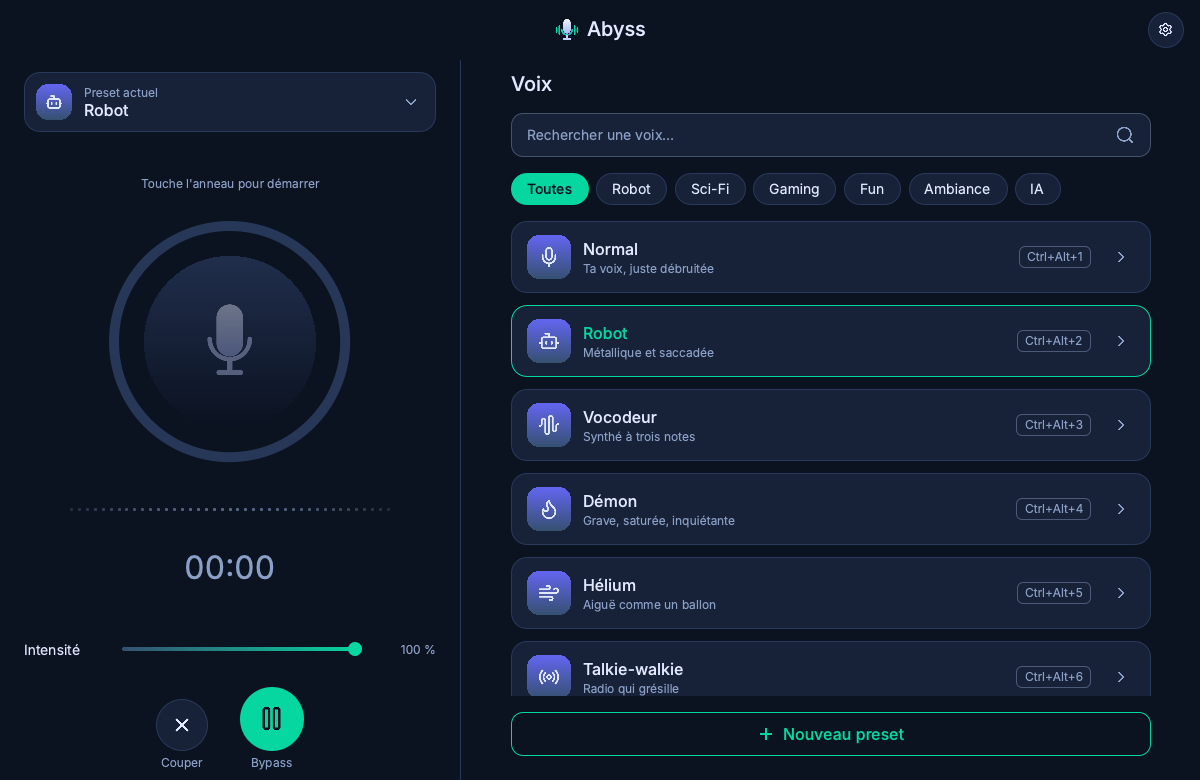
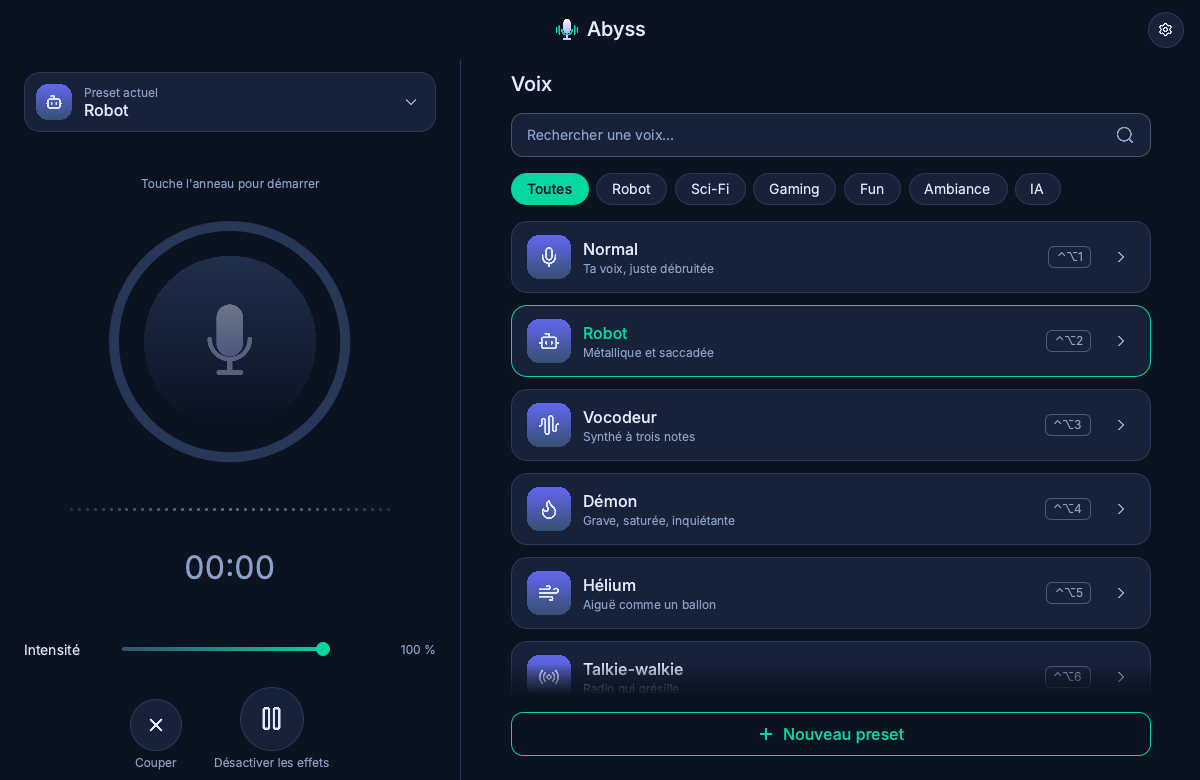
fix(ui): revue de l'interface — bypass, libellés, alignement des curseurs
- Bypass neutre tant que les effets sont actifs ; libellés explicites
- Éditeur : libellés Nom / Description, égaliseur en Hz / kHz
- Curseurs : colonnes libellé/valeur communes, empilés en largeur étroite
- Réglages : « Réduire le bruit de fond », interrupteurs alignés
- Raccourcis en notation Mac (⌃⌥1) sur macOS
- Liste des voix : fondu en bas quand elle défile
- Captures d'écran mises à jour

diff --git a/src/abyss/ui/qml/components/AbyssRangeSlider.qml b/src/abyss/ui/qml/components/AbyssRangeSlider.qml
@@ -12,29 +12,41 @@ Item {
     property bool logarithmic: true
     property real first: 80
     property real second: 8000
-    property real labelWidth: 96
-    property var formatValue: function(v) { return v >= 1000 ? (v / 1000).toFixed(v >= 10000 ? 0 : 1) + " k" : Math.round(v) + "" }
+    property real labelWidth: Theme.formLabelWidth
+    property real valueWidth: Theme.formValueWidth
+    property var formatValue: function(v) { return v >= 1000 ? (v / 1000).toFixed(v >= 10000 ? 0 : 1) + " kHz" : Math.round(v) + " Hz" }
     signal edited(real first, real second)
 
     function toPos(v) { return logarithmic ? Math.log(v / from) / Math.log(to / from) : (v - from) / (to - from) }
     function fromPos(p) { return logarithmic ? from * Math.pow(to / from, p) : from + p * (to - from) }
 
-    implicitHeight: Theme.controlHeight
+    // Étroit : libellé et valeur au-dessus, piste pleine largeur.
+    readonly property bool stacked: label !== "" && width < labelWidth + valueWidth + 200
+    implicitHeight: stacked ? grid.implicitHeight : Theme.controlHeight
     implicitWidth: 280
     opacity: enabled ? 1 : 0.4
 
-    RowLayout {
+    GridLayout {
+        id: grid
         anchors.fill: parent
-        spacing: Theme.s3
+        columns: root.stacked ? 2 : 3
+        columnSpacing: Theme.s3
+        rowSpacing: 0
         AbyssText {
             visible: root.label !== ""
             text: root.label
             role: "bodySmall"
-            Layout.preferredWidth: root.labelWidth
+            Layout.row: 0; Layout.column: 0
+            Layout.fillWidth: root.stacked
+            Layout.preferredWidth: root.stacked ? -1 : root.labelWidth
         }
         C.RangeSlider {
             id: range
+            Layout.row: root.stacked ? 1 : 0
+            Layout.column: root.stacked ? 0 : 1
+            Layout.columnSpan: root.stacked ? 2 : 1
             Layout.fillWidth: true
+            Layout.preferredHeight: Theme.controlHeight - (root.stacked ? Theme.s3 : 0)
             from: 0; to: 1
             first.value: root.toPos(root.first)
             second.value: root.toPos(root.second)
@@ -73,7 +85,8 @@ Item {
             role: "caption"
             secondary: true
             horizontalAlignment: Text.AlignRight
-            Layout.preferredWidth: 72
+            Layout.row: 0; Layout.column: root.stacked ? 1 : 2
+            Layout.preferredWidth: root.valueWidth
         }
     }
 }

diff --git a/src/abyss/ui/qml/components/AbyssSlider.qml b/src/abyss/ui/qml/components/AbyssSlider.qml
@@ -14,7 +14,8 @@ Item {
     property alias pressed: slider.pressed
     property string unit: "%"
     property int decimals: 0
-    property real labelWidth: 96
+    property real labelWidth: Theme.formLabelWidth
+    property real valueWidth: Theme.formValueWidth
     // Par défaut : 0..1 affiché en %, sinon valeur + unité.
     property var formatValue: function(v) {
         return unit === "%" && slider.to <= 1 ? Math.round(v * 100) + " %"
@@ -22,22 +23,33 @@ Item {
     }
     signal moved(real value)
 
-    implicitHeight: Theme.controlHeight
+    // Étroit : libellé et valeur au-dessus, piste pleine largeur.
+    readonly property bool stacked: label !== "" && width < labelWidth + valueWidth + 200
+    implicitHeight: stacked ? grid.implicitHeight : Theme.controlHeight
     implicitWidth: 280
     opacity: enabled ? 1 : 0.4
 
-    RowLayout {
+    GridLayout {
+        id: grid
         anchors.fill: parent
-        spacing: Theme.s3
+        columns: root.stacked ? 2 : 3
+        columnSpacing: Theme.s3
+        rowSpacing: 0
         AbyssText {
             visible: root.label !== ""
             text: root.label
             role: "bodySmall"
-            Layout.preferredWidth: root.labelWidth
+            Layout.row: 0; Layout.column: 0
+            Layout.fillWidth: root.stacked
+            Layout.preferredWidth: root.stacked ? -1 : root.labelWidth
         }
         Slider {
             id: slider
+            Layout.row: root.stacked ? 1 : 0
+            Layout.column: root.stacked ? 0 : 1
+            Layout.columnSpan: root.stacked ? 2 : 1
             Layout.fillWidth: true
+            Layout.preferredHeight: Theme.controlHeight - (root.stacked ? Theme.s3 : 0)
             from: 0; to: 1; value: 0.5
             onMoved: root.moved(value)
             background: Rectangle {
@@ -74,7 +86,8 @@ Item {
             role: "caption"
             secondary: true
             horizontalAlignment: Text.AlignRight
-            Layout.preferredWidth: 56
+            Layout.row: 0; Layout.column: root.stacked ? 1 : 2
+            Layout.preferredWidth: root.valueWidth
         }
     }
 }

diff --git a/src/abyss/ui/qml/screens/PresetEditor.qml b/src/abyss/ui/qml/screens/PresetEditor.qml
@@ -81,13 +81,13 @@ Item {
 
                 AbyssSlider {
                     Layout.fillWidth: true
-                    label: "Intensité"; labelWidth: 84
+                    label: "Intensité"
                     value: root.draft.intensity !== undefined ? root.draft.intensity : 1
                     onMoved: (v) => root.setValue("intensity", v)
                 }
                 AbyssRangeSlider {
                     Layout.fillWidth: true
-                    label: "Égaliseur"; labelWidth: 84
+                    label: "Égaliseur"
                     from: 50; to: 12000
                     first: root.draft.toneLow || 50
                     second: root.draft.toneHigh || 12000
@@ -110,6 +110,7 @@ Item {
             }
 
             AbyssText { text: "Identité"; role: "label"; Layout.topMargin: Theme.s2 }
+            AbyssText { text: "Nom"; role: "caption"; secondary: true; Layout.bottomMargin: -Theme.s2 }
             AbyssTextField {
                 id: nameField
                 Layout.fillWidth: true
@@ -118,6 +119,7 @@ Item {
                 maximumLength: 40
                 onTextEdited: root.setValue("name", text)
             }
+            AbyssText { text: "Description"; role: "caption"; secondary: true; Layout.bottomMargin: -Theme.s2 }
             AbyssTextField {
                 id: descField
                 Layout.fillWidth: true
@@ -177,7 +179,6 @@ Item {
                                     anchors.left: parent.left
                                     anchors.right: parent.right
                                     label: paramRow.param.label
-                                    labelWidth: 120
                                     from: paramRow.param.min; to: paramRow.param.max; stepSize: paramRow.param.step
                                     unit: paramRow.param.unit
                                     decimals: root.decimalsFor(paramRow.param.step)

diff --git a/src/abyss/ui/qml/screens/Settings.qml b/src/abyss/ui/qml/screens/Settings.qml
@@ -89,10 +89,10 @@ Item {
 
             SectionLabel { text: "Débruitage" }
             Card {
-                AbyssToggle { text: "Débruitage"; checked: app.denoiseOn; onToggled: app.setDenoise(checked) }
+                AbyssToggle { text: "Réduire le bruit de fond"; checked: app.denoiseOn; onToggled: app.setDenoise(checked) }
                 AbyssSlider {
                     Layout.fillWidth: true
-                    label: "Seuil"; labelWidth: 72
+                    label: "Seuil"
                     from: -80; to: -20; stepSize: 1; unit: "dB"
                     value: app.denoiseThreshold
                     enabled: app.denoiseOn
@@ -105,7 +105,7 @@ Item {
                 AbyssToggle { text: "M'entendre dans le casque"; checked: app.monitorOn; onToggled: app.setMonitor(checked) }
                 AbyssSlider {
                     Layout.fillWidth: true
-                    label: "Volume"; labelWidth: 72
+                    label: "Volume"
                     value: app.monitorVolume
                     enabled: app.monitorOn
                     onMoved: (v) => app.setMonitorVolume(v)
@@ -117,7 +117,7 @@ Item {
             Card {
                 AbyssSlider {
                     Layout.fillWidth: true
-                    label: "Gain"; labelWidth: 72
+                    label: "Gain"
                     from: -12; to: 12; stepSize: 1; unit: "dB"
                     formatValue: function(v) { return (v > 0 ? "+" : "") + v.toFixed(0) + " dB" }
                     value: app.outputGain

diff --git a/src/abyss/ui/qml/screens/Direct.qml b/src/abyss/ui/qml/screens/Direct.qml
@@ -133,14 +133,15 @@ Item {
                 IconButton {
                     Layout.alignment: Qt.AlignHCenter
                     diameter: 64
-                    variant: "active"
+                    variant: app.bypass ? "active" : "neutral"
                     iconName: app.bypass ? "play" : "pause"
                     tooltip: app.bypass ? "Réactiver les effets" : "Bypass : voix sans effets"
                     onClicked: app.toggleBypass()
                 }
                 AbyssText {
-                    text: app.bypass ? "Effets en pause" : "Bypass"
-                    role: "caption"; secondary: true
+                    text: app.bypass ? "Réactiver les effets" : "Désactiver les effets"
+                    role: "caption"; secondary: !app.bypass
+                    color: app.bypass ? Theme.accent : Theme.textSecondary
                     Layout.alignment: Qt.AlignHCenter
                 }
             }

diff --git a/src/abyss/ui/qml/screens/Voices.qml b/src/abyss/ui/qml/screens/Voices.qml
@@ -68,6 +68,19 @@ Item {
                 onClicked: { app.selectPreset(model.id); root.presetChosen(model.id) }
                 onChevronClicked: root.editPreset(model.id)
             }
+            // Fondu bas : signale qu'il reste des voix à faire défiler.
+            Rectangle {
+                parent: list
+                anchors.left: parent.left
+                anchors.right: parent.right
+                anchors.bottom: parent.bottom
+                height: Theme.s6
+                visible: !list.atYEnd
+                gradient: Gradient {
+                    GradientStop { position: 0; color: "transparent" }
+                    GradientStop { position: 1; color: Theme.bgDeep }
+                }
+            }
             AbyssText {
                 anchors.centerIn: parent
                 visible: list.count === 0

diff --git a/src/abyss/ui/qml/theme/Theme.qml b/src/abyss/ui/qml/theme/Theme.qml
@@ -49,6 +49,8 @@ QtObject {
     readonly property int iconSize: 20
     readonly property int iconButton: 52
     readonly property int strokeThin: 1
+    readonly property int formLabelWidth: 120   // colonne libellé des curseurs de formulaire
+    readonly property int formValueWidth: 88    // colonne valeur (« 50 Hz – 12 kHz », « -12 demi-tons »)
 
     // Animation
     readonly property int durFast: 150

diff --git a/src/abyss/ui/qml/components/AbyssToggle.qml b/src/abyss/ui/qml/components/AbyssToggle.qml
@@ -6,6 +6,7 @@ Switch {
     id: control
     hoverEnabled: true
     spacing: Theme.s3
+    leftPadding: 0
     opacity: enabled ? 1 : 0.4
 
     indicator: Rectangle {

diff --git a/tests/test_controller.py b/tests/test_controller.py
@@ -2,6 +2,7 @@ import pytest
 from PySide6.QtWidgets import QApplication
 
 from abyss.config import Config
+from abyss.hotkeys import pretty
 from abyss.presets import load_presets
 from abyss.ui.controller import AppController, level_from_rms
 from abyss.ui.models import ALL, PresetFilterModel, PresetModel
@@ -37,7 +38,7 @@ def test_model_roles_and_placeholder(qapp):
     assert {"id", "name", "description", "category", "icon", "badge", "hotkey", "intensity", "toneLow",
             "toneHigh", "effects", "isUser", "enabled"} <= roles
     robot = model.get("robot")
-    assert robot["hotkey"] == "Ctrl+Alt+2" and robot["enabled"] and robot["intensity"] == 1.0
+    assert robot["hotkey"] == pretty("<ctrl>+<alt>+2") and robot["enabled"] and robot["intensity"] == 1.0
     ai = model.get("ai-voice")
     assert ai["badge"] == "soon" and not ai["enabled"] and ai["category"] == "IA"
 

diff --git a/src/abyss/hotkeys.py b/src/abyss/hotkeys.py
@@ -25,9 +25,14 @@ else:
     PERMISSION_HINT = "Relance Abyss ; si ça persiste, un antivirus ou un autre logiciel bloque peut-être le clavier"
 
 
-def pretty(combo: str) -> str:
-    """'<ctrl>+<alt>+1' → 'Ctrl+Alt+1'."""
+_MAC_SYMBOLS = {"ctrl": "⌃", "alt": "⌥", "shift": "⇧", "cmd": "⌘"}
+
+
+def pretty(combo: str, mac: bool = sys.platform == "darwin") -> str:
+    """'<ctrl>+<alt>+1' → 'Ctrl+Alt+1' (Windows) ou '⌃⌥1' (macOS)."""
     parts = [p.strip("<>") for p in combo.split("+")]
+    if mac:
+        return "".join(_MAC_SYMBOLS.get(p, p.capitalize() if len(p) > 1 else p.upper()) for p in parts)
     return "+".join(p.capitalize() if len(p) > 1 else p.upper() for p in parts)
 
 

diff --git a/tests/test_gui.py b/tests/test_gui.py
@@ -15,4 +15,5 @@ def test_gui_smoke_offscreen(tmp_path):
 
 
 def test_pretty_hotkey():
-    assert pretty("<ctrl>+<alt>+m") == "Ctrl+Alt+M"
+    assert pretty("<ctrl>+<alt>+m", mac=False) == "Ctrl+Alt+M"
+    assert pretty("<ctrl>+<alt>+m", mac=True) == "⌃⌥M"

diff --git a/DECISIONS.md b/DECISIONS.md
@@ -80,3 +80,13 @@
 - Micro virtuel Windows (choix utilisateur) : pas de pilote maison (pilote noyau signé par Microsoft requis ; le mode test casse les anti-triche). L'installeur télécharge `VBCABLE_Driver_Pack45.zip` depuis le site officiel (jamais redistribué dans le dépôt, licence donationware respectée), lance `VBCABLE_Setup_x64.exe -i -h` (ARM64/32 bits gérés), puis renomme le micro « CABLE Output » en « Abyss » via l'API Core Audio (`IPropertyStore`, `PKEY_Device_DeviceDesc`, C# chargé par `Add-Type`, `scripts/windows_audio.cs`). Une seule élévation UAC (`scripts/windows_audio_setup.ps1`). Discord affiche « Abyss (VB-Audio Virtual Cable) ». La sortie « CABLE Input » où écrit Abyss n'est pas renommée (détection inchangée).
 - Détection : tout périphérique du pilote « VB-Audio Virtual Cable » est virtuel (jamais choisi comme micro) ; la cible de sortie privilégie « CABLE Input » / BlackHole.
 - Échec de l'étape micro virtuel (refus UAC, téléchargement) : message clair, l'installation d'Abyss reste valide. Non testé sur un vrai PC (pas de compilateur C# ni de PowerShell sur le Mac de dev).
+
+## Revue UI (2026-10-13)
+
+- Bypass : bouton neutre tant que les effets sont actifs, plein accent seulement quand le bypass est engagé ; libellés « Désactiver les effets » / « Réactiver les effets ».
+- Éditeur : libellés « Nom » et « Description » au-dessus des champs ; égaliseur affiché en Hz / kHz.
+- Curseurs de formulaire : colonnes communes `Theme.formLabelWidth` (120) et `Theme.formValueWidth` (88) ; en largeur étroite, libellé + valeur au-dessus et piste pleine largeur.
+- Réglages : interrupteur « Réduire le bruit de fond » (plus de doublon avec le titre de section) ; interrupteurs alignés sur la colonne des libellés (`leftPadding: 0`).
+- Raccourcis affichés en notation Mac (⌃⌥1) sur macOS, « Ctrl+Alt+1 » ailleurs (`hotkeys.pretty`).
+- Liste des voix : fondu en bas tant qu'il reste des éléments à faire défiler.
+- Catégorie « IA » volontairement absente de l'éditeur : réservée à la future voix IA (placeholder « Bientôt »).
